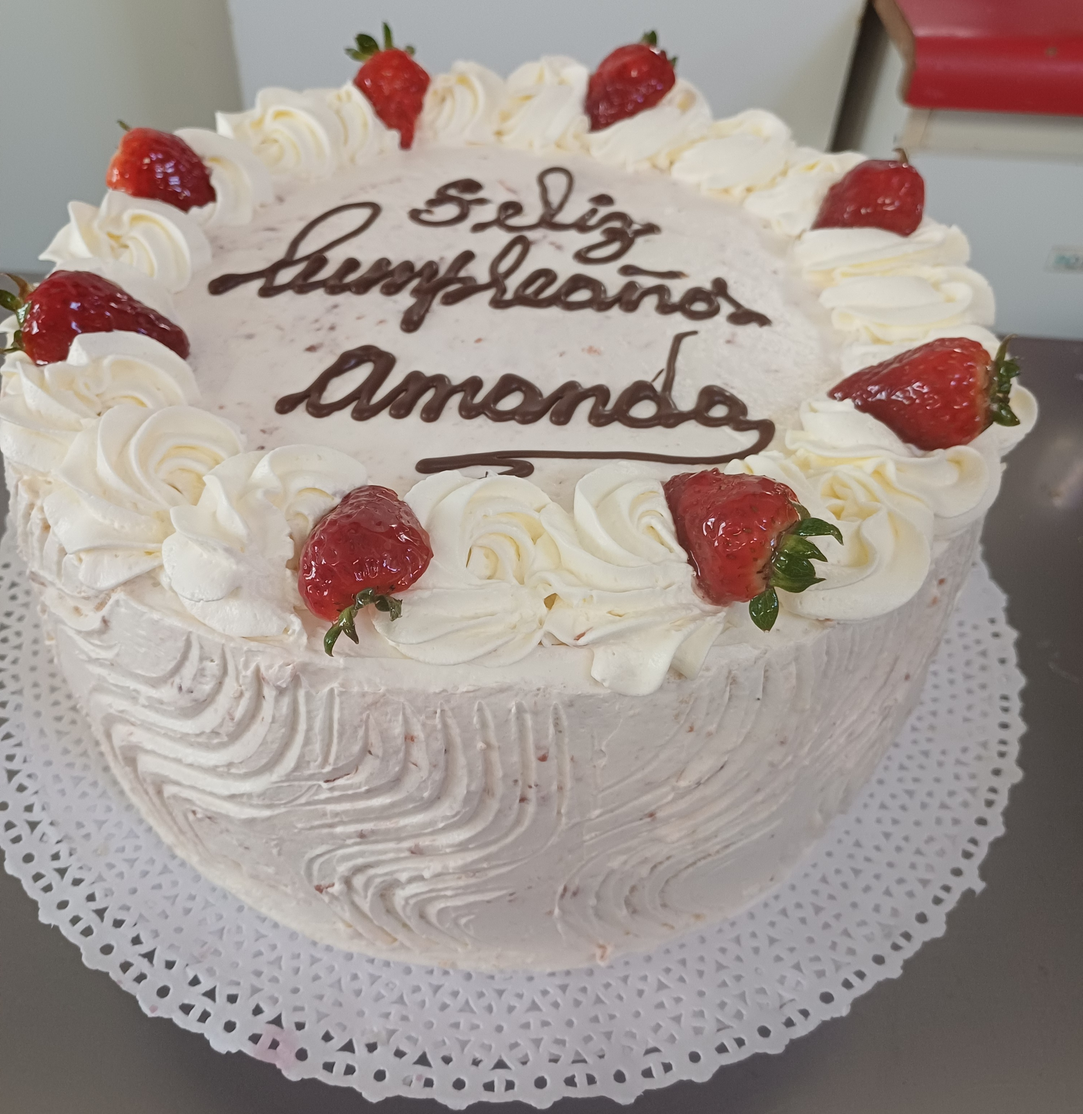
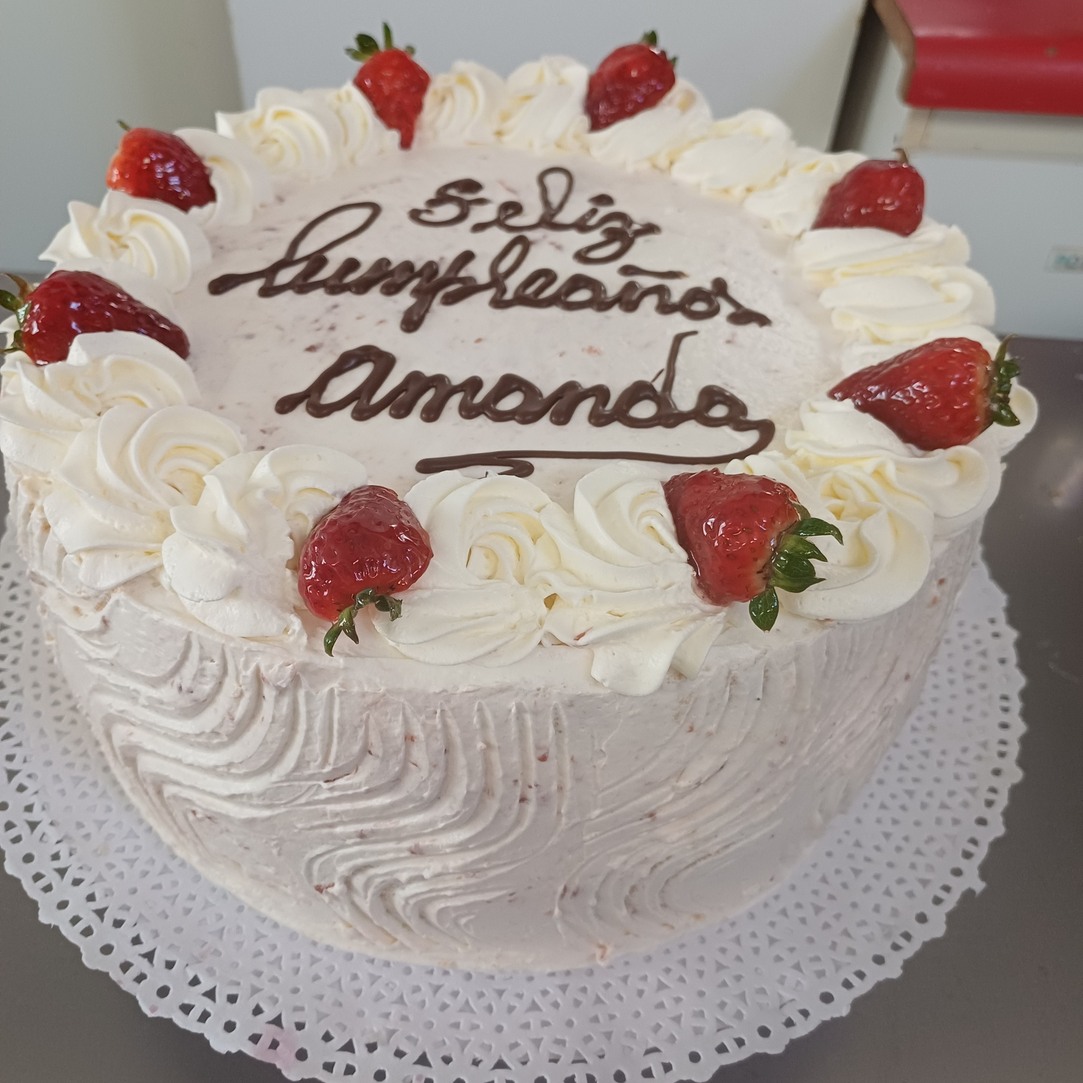
Actualizar fotos de productos y precio de empanada de queso
Reemplaza varias fotos de tortas, galería y productos de temporada por
versiones más cuadradas y mejor recortadas. Se quita el ajuste de
posición especial de la foto de la Torta 5 Sabores (ya no es necesario
con la nueva foto, bien centrada). Se actualiza el precio de la
Empanada de Queso (Masa de Hoja) de $2.600 a $2.800.

Claude-Session: https://claude.ai/code/session_01VYEH9iXryEp8i9u5qy5gRX

diff --git a/script.js b/script.js
@@ -256,7 +256,7 @@ const CAKES = [
     es: { name: "Torta a tu Elección", desc: "Rellena con crema pastelera, manjar o mermelada de frambuesa." },
     en: { name: "Build-Your-Own Filling", desc: "Filled with pastry cream, manjar or raspberry jam — your choice." },
     prices: [36700, 44000, 52500, 63000, 68000, 84000] },
-  { id: "cinco-sabores", category: "premium", group: "B", img: "images/torta-5-sabores.jpg", photoPosition: "center 15%",
+  { id: "cinco-sabores", category: "premium", group: "B", img: "images/torta-5-sabores.jpg",
     es: { name: "Torta 5 Sabores", desc: "Bizcocho de piña, panqueque de naranja, bizcocho de chocolate, merengue de lúcuma y hojarasca." },
     en: { name: "Five Flavors Cake", desc: "Pineapple sponge, orange crepe cake, chocolate sponge, lúcuma meringue and hojarasca." },
     prices: [37300, 44100, 52500, 63000, 73000, 84000] },
@@ -434,7 +434,7 @@ const SEASONAL_ITEMS = [
   { id: "empanada-queso-hoja", subcategory: "empanadas", img: "images/temporada-empanada-queso-hoja.jpg",
     es: { name: "Empanada de Queso (Masa de Hoja)" },
     en: { name: "Puff Pastry Cheese Empanada" },
-    price: 2600 },
+    price: 2800 },
 
   // ---------- Dulces Chilenos ----------
   { id: "alfajores-patrios", subcategory: "dulces", img: "images/temporada-alfajores.jpg",
